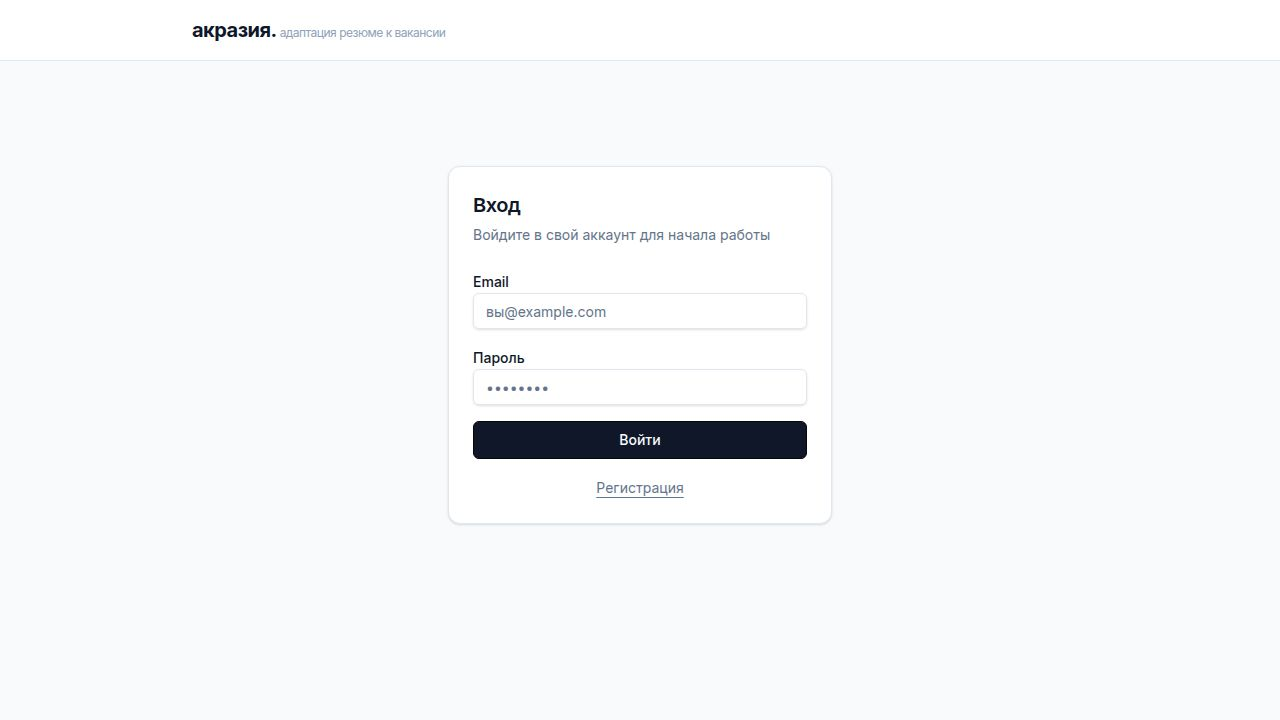
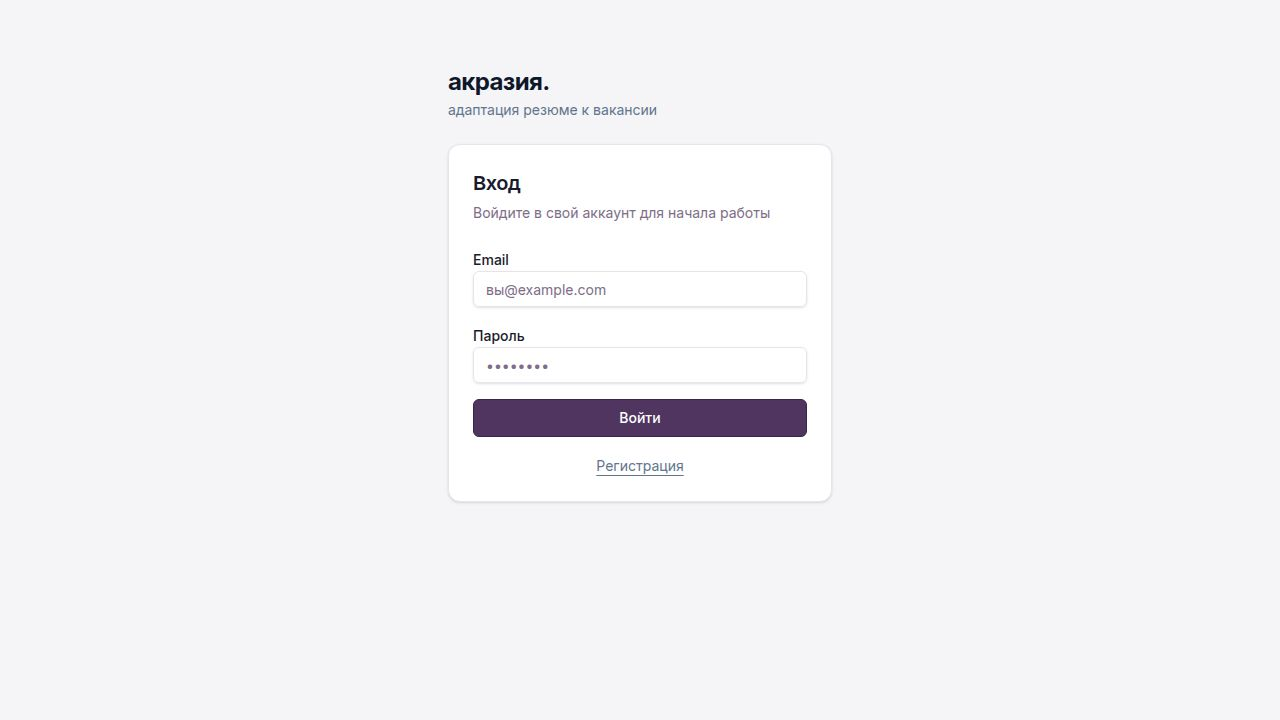
Add a button to pre-fill forms with test data
Adds constants for test vacancy and resume data, and a button to populate the respective text fields in ScreenUpload.tsx.

Replit-Commit-Author: Agent
Replit-Commit-Session-Id: 039f53fe-8052-47f8-b35c-6fa182245db3
Replit-Commit-Checkpoint-Type: full_checkpoint
Replit-Commit-Event-Id: 992d30a0-15bc-4548-a9b4-14c104591621
Replit-Commit-Screenshot-Url: https://storage.googleapis.com/screenshot-production-us-central1/95adc0b9-4134-4c04-9b37-63070c82c5c6/039f53fe-8052-47f8-b35c-6fa182245db3/JYRVswR
Replit-Helium-Checkpoint-Created: true

Changed region(s): [[0.3438, 0.2444, 0.6562, 0.7028], [0.3438, 0.0917, 0.5, 0.1833], [0.1562, 0.0306, 0.3438, 0.0611]]

diff --git a/artifacts/resume-adapter/src/components/ScreenUpload.tsx b/artifacts/resume-adapter/src/components/ScreenUpload.tsx
@@ -10,6 +10,55 @@ import { useToast } from "@/hooks/use-toast";
 import { AppState } from "../App";
 import { UploadCloud, FileText, Briefcase, Loader2 } from "lucide-react";
 
+const TEST_VACANCY = `HR-аналитик
+
+Компания: Альфа-Банк
+Город: Москва
+
+Обязанности:
+— Формирование и поддержка HR-дашбордов и отчётности в Power BI
+— Анализ ключевых HR-метрик: текучесть, укомплектованность, eNPS
+— Выгрузка и обработка данных из 1С:ЗУП и корпоративных систем
+— Подготовка регулярной отчётности для руководства
+— Автоматизация отчётов с помощью SQL и Excel
+
+Требования:
+— Опыт работы в HR-аналитике или смежной области от 2 лет
+— Уверенный пользователь Excel (сводные таблицы, формулы)
+— Знание SQL на уровне написания выборок
+— Опыт работы с Power BI или аналогичными BI-инструментами
+— Знание основ статистики
+— Навыки работы с 1С:ЗУП
+
+Условия:
+— Офис в центре Москвы
+— Оформление по ТК РФ
+— ДМС со стоматологией`;
+
+const TEST_RESUME = `Иванов Иван Иванович
+
[email redacted] | [phone redacted]
+
+Опыт работы
+
+Альфа-Банк, специалист по персоналу, 2022 — настоящее время
+- Рассчитывал показатели текучести и укомплектованности штата
+- Ежемесячно готовил отчёты по численности и движению персонала в Excel
+- Вёл сводные таблицы по затратам на персонал
+
+Бета-Компания, ассистент HR-отдела, 2020 — 2022
+- Вёл кадровый документооборот
+- Помогал с подбором персонала
+- Формировал отчёты в Excel
+
+Образование
+
+НИУ ВШЭ, бакалавр, управление персоналом, 2022
+
+Навыки
+
+Excel, PowerPoint`;
+
 interface ScreenUploadProps {
   state: AppState;
   onAnalyzeSuccess: (res: AnalyzeResult, vacancy: string, resume: string) => void;
@@ -168,7 +217,7 @@ export default function ScreenUpload({ state, onAnalyzeSuccess }: ScreenUploadPr
         </Card>
       </div>
 
-      <div className="flex justify-center">
+      <div className="flex flex-col items-center gap-3">
         <Button 
           size="lg" 
           onClick={handleAnalyze} 
@@ -178,6 +227,13 @@ export default function ScreenUpload({ state, onAnalyzeSuccess }: ScreenUploadPr
           {analyzeMutation.isPending && <Loader2 className="mr-2 h-4 w-4 animate-spin" />}
           {analyzeMutation.isPending ? "Анализирую соответствие..." : "Анализировать"}
         </Button>
+        <button
+          type="button"
+          onClick={() => { setVacancyText(TEST_VACANCY); setResumeText(TEST_RESUME); }}
+          className="text-xs text-muted-foreground hover:text-foreground transition-colors underline underline-offset-2"
+        >
+          Добавить тестовые данные
+        </button>
       </div>
     </div>
   );